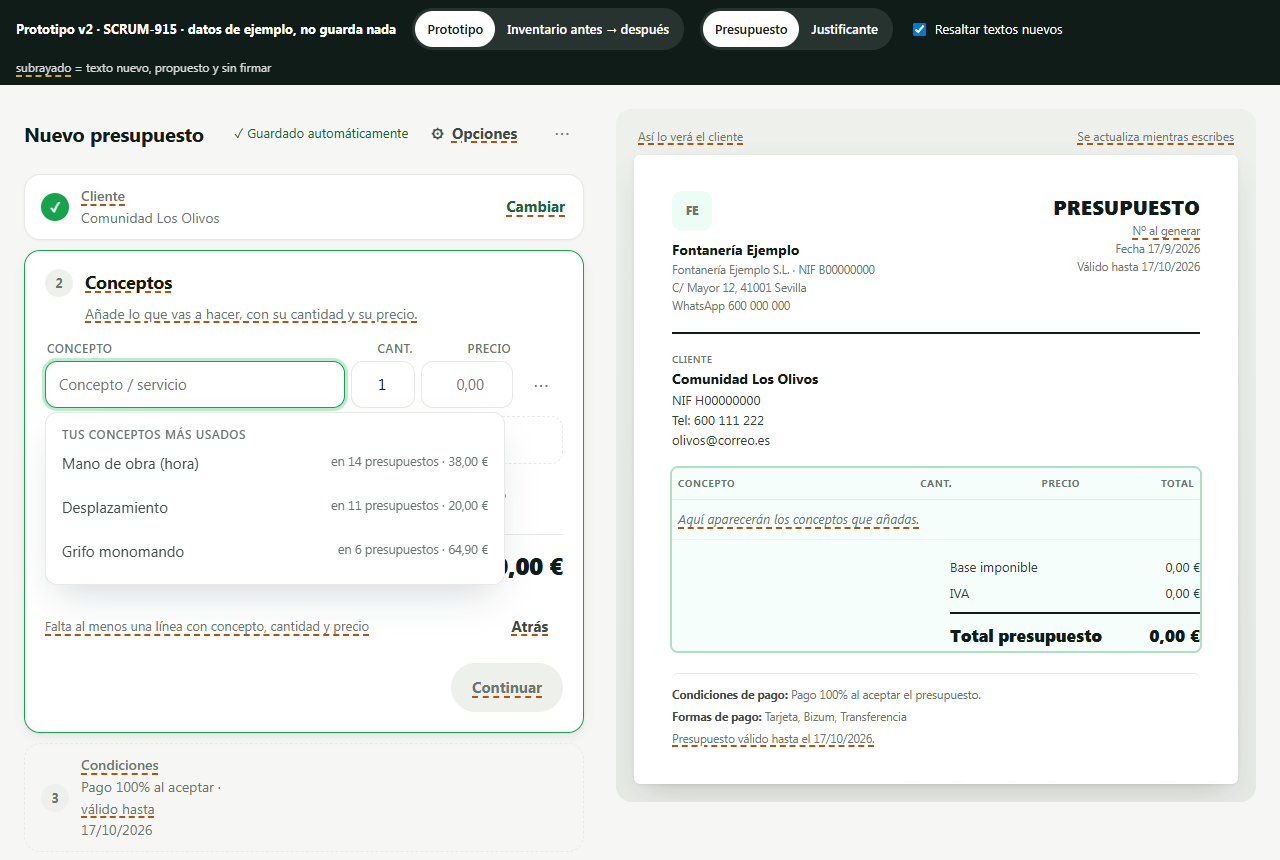
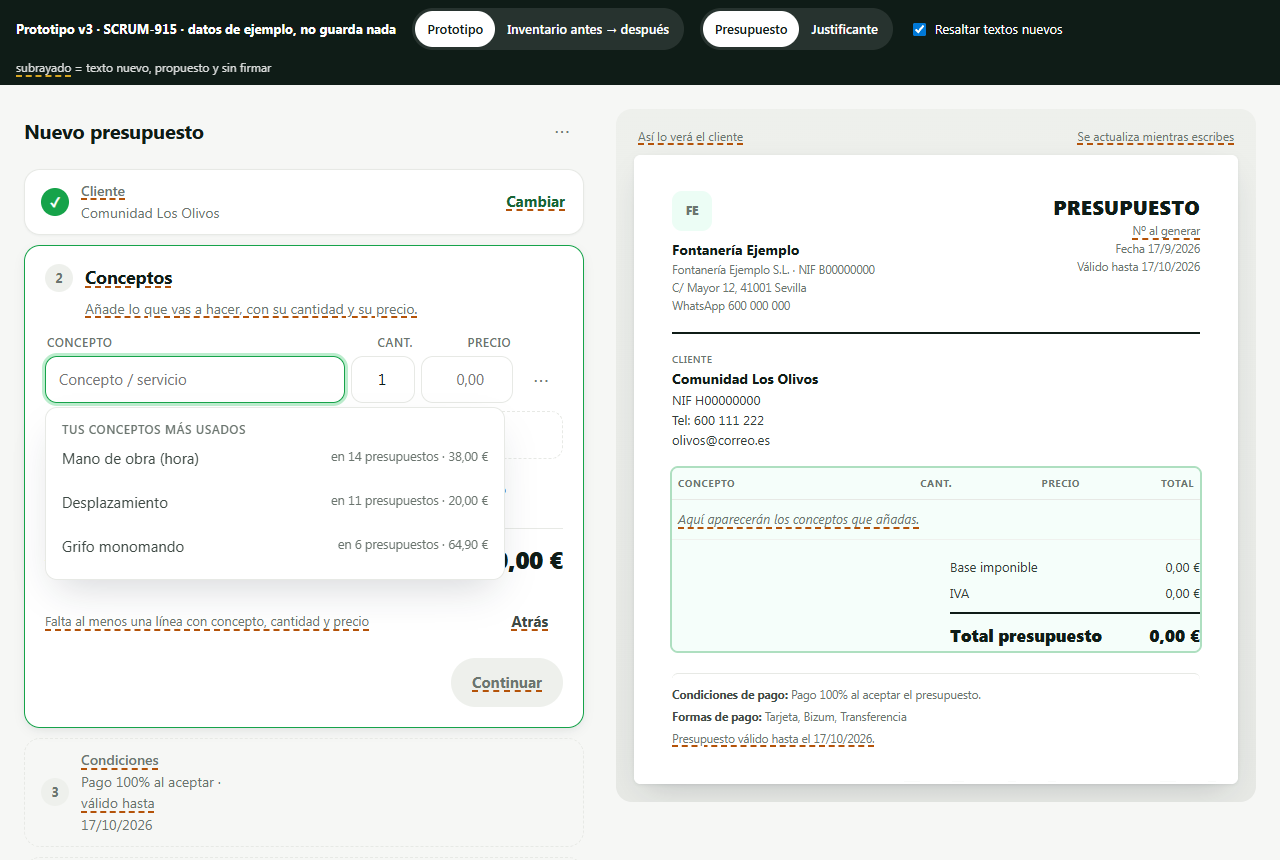
SCRUM-915c · prototipo v3: ajustes del documento como fila a la vista y «Enviar por WhatsApp» como acción principal del último paso

diff --git a/docs/prototipos/SCRUM-915/editor-presupuesto.html b/docs/prototipos/SCRUM-915/editor-presupuesto.html
@@ -3,7 +3,7 @@
 <head>
 <meta charset="utf-8">
 <meta name="viewport" content="width=device-width, initial-scale=1">
-<title>Editor de presupuesto · prototipo v2</title>
+<title>Editor de presupuesto · prototipo v3</title>
 <meta name="description" content="Prototipo v2 del editor de presupuesto y justificante (SCRUM-915): pasos guiados a la izquierda y el documento vivo a la derecha. Datos de ejemplo; no guarda nada.">
 <style>
 /* Tokens: DESIGN.md (única fuente). */
@@ -165,6 +165,7 @@ body.sin-resaltar .propuesto{text-decoration:none}
   .previa{display:none}
   .barra-abajo{display:flex;position:fixed;left:0;right:0;bottom:0;z-index:25;background:var(--surface);border-top:1px solid var(--border);box-shadow:var(--sh-flotante);padding:10px 16px calc(10px + env(safe-area-inset-bottom));gap:10px;align-items:center}
   .barra-abajo .tot{flex:1;min-width:0}
+  .barra-abajo .tot .label{white-space:nowrap}
   .barra-abajo .tot .cifra{font-size:1.25rem;font-weight:800;color:var(--ink);font-variant-numeric:tabular-nums;display:block;line-height:1.15}
   .doc{padding:22px 18px;min-height:0}
   .doc .tot{width:100%}
@@ -219,7 +220,7 @@ body.sin-resaltar .propuesto{text-decoration:none}
 </head>
 <body>
 <div class="proto" role="region" aria-label="Controles del prototipo">
-  <strong>Prototipo v2 · SCRUM-915 · datos de ejemplo, no guarda nada</strong>
+  <strong>Prototipo v3 · SCRUM-915 · datos de ejemplo, no guarda nada</strong>
   <div class="seg" role="group" aria-label="Vista">
     <button type="button" data-vista="proto" aria-pressed="true">Prototipo</button>
     <button type="button" data-vista="inv" aria-pressed="false">Inventario antes → después</button>
@@ -278,7 +279,7 @@ function inicial(tipo){return {
   cond:'FULL_UPFRONT', tramos:[{e:'Anticipo',p:50},{e:'Al finalizar',p:50}], pagos:{tarjeta:true,bizum:true,transferencia:true},
   validez:hoyMas(30), cambiando:null,
   op:{ivaDef:21,ivaModo:'sumar',dir:'no',dirTxt:'',datos:{nombre:true,tel:true,nif:true,email:true},razon:'razon',incDesc:false},
-  generado:null, zona:'cliente'
+  generado:null, envio:null, zona:'cliente'
 };}
 S=inicial();
 
@@ -302,8 +303,8 @@ function totales(){
 }
 const sumaTramos=()=>S.tramos.reduce((a,t)=>a+(Number(t.p)||0),0);
 const PASOS=()=>esPres()
-  ?[{k:'cliente',t:'Cliente',guia:'¿Para quién es el presupuesto?'},{k:'lineas',t:'Conceptos',guia:'Añade lo que vas a hacer, con su cantidad y su precio.'},{k:'condiciones',t:'Condiciones',guia:'Ya van puestas las de siempre. Cámbialas sólo si este cliente es distinto.'},{k:'enviar',t:'Revisar y enviar',guia:'Mira el documento a la derecha y, si está bien, genéralo.'}]
-  :[{k:'cliente',t:'Cliente',guia:'¿Para quién es el justificante?'},{k:'lineas',t:'Conceptos',guia:'Añade lo que has hecho, con su cantidad y su precio.'},{k:'enviar',t:'Revisar y emitir',guia:'Mira el documento a la derecha y, si está bien, emítelo.'}];
+  ?[{k:'cliente',t:'Cliente',guia:'¿Para quién es el presupuesto?'},{k:'lineas',t:'Conceptos',guia:'Añade lo que vas a hacer, con su cantidad y su precio.'},{k:'condiciones',t:'Condiciones',guia:'Ya van puestas las de siempre. Cámbialas sólo si este cliente es distinto.'},{k:'enviar',t:'Revisar y enviar',guia:'Revisa el documento y, si está bien, envíaselo al cliente por WhatsApp.'}]
+  :[{k:'cliente',t:'Cliente',guia:'¿Para quién es el justificante?'},{k:'lineas',t:'Conceptos',guia:'Añade lo que has hecho, con su cantidad y su precio.'},{k:'enviar',t:'Revisar y emitir',guia:'Revisa el documento y, si está bien, emítelo.'}];
 const hecho=(i)=>{const k=PASOS()[i-1].k; if(k==='cliente')return !!S.cliente; if(k==='lineas')return S.lineas.some(valida); if(k==='condiciones')return S.abierto>i&&(S.cond!=='CUSTOM'||sumaTramos()===100); return !!S.generado;};
 const puede=(i)=>{const k=PASOS()[i-1].k; if(k==='cliente')return !!S.cliente; if(k==='lineas')return S.lineas.some(valida); if(k==='condiciones')return S.cond!=='CUSTOM'||sumaTramos()===100; return true;};
 const listo=()=>!!S.cliente&&S.lineas.some(valida)&&(!esPres()||S.cond!=='CUSTOM'||sumaTramos()===100);
@@ -318,7 +319,6 @@ function renderEditor(){
   $('#editor').innerHTML=`
     <div class="cab"><h1>${esPres()?'Nuevo presupuesto':'Nuevo justificante'}</h1>
       ${esPres()?'<span class="guardado" id="guardado" aria-live="polite"></span>':''}
-      <button class="btn btn-ghost" data-accion="opciones" title="${esc('Opciones del documento')}">⚙ ${P('Opciones')}</button>
       <button class="menu-linea" data-accion="mas" aria-label="Más acciones">⋯</button></div>
     ${PASOS().map((p,idx)=>renderPaso(p,idx+1,t)).join('')}`;
   if(foco){const el=document.getElementById(foco); if(el){el.focus();try{if(pos!=null)el.setSelectionRange(pos,pos);}catch(e){}}}
@@ -342,7 +342,7 @@ function renderPaso(p,i,t){
     <div class="pie-paso">
       ${!ultimo&&!puede(i)?`<span class="falta">${P(faltaTxt(p.k))}</span>`:''}
       ${i>1?`<button class="btn btn-ghost" data-abrir="${i-1}">${P('Atrás')}</button>`:''}
-      ${ultimo?`<button class="btn btn-primary" data-accion="generar" ${listo()?'':'disabled'}>${esPres()?'Generar presupuesto':'Emitir justificante'}</button>`
+      ${ultimo?(esPres()?botonWa():`<button class="btn btn-primary" data-accion="generar" ${listo()?'':'disabled'}>Emitir justificante</button>`)
         :`<button class="btn btn-primary" data-abrir="${i+1}" ${puede(i)?'':'disabled'}>${P('Continuar')}</button>`}
     </div></div></section>`;
 }
@@ -400,31 +400,62 @@ function listaAuto(q){
   const r=CATALOGO.filter((p)=>p[0].toLowerCase().includes(q.toLowerCase()));
   return r.length?r.map((p,j)=>`<li><button type="button" data-cat="${CATALOGO.indexOf(p)}">${esc(p[0])}<small>${eur(p[2])}</small></button></li>`).join(''):`<li class="nota" style="padding:8px 10px">Sin resultados</li>`;
 }
+function filaRes(k,titulo,valor,detalle){ const ch=S.cambiando;
+  return `<div class="fila-res"><div class="que"><b>${titulo}</b><span>${valor}</span></div>
+      <button class="enlace" data-cambiar="${k}" aria-expanded="${ch===k}">${ch===k?P('Listo'):P('Cambiar')}</button></div>
+    ${ch===k?`<div class="detalle">${detalle}</div>`:''}`; }
+// SCRUM-915 v3 · los ajustes del documento, a la vista como una fila más (decisión del orquestador).
+function filaAjustes(){
+  const o=S.op;
+  const resumen=esPres()
+    ? [o.ivaModo==='sumar'?P('IVA sumado'):'IVA no incluido', o.dir==='no'?P('sin dirección de obra'):P('con dirección de obra')].join(' · ')
+    : P('IVA por defecto')+' '+o.ivaDef+' %';
+  const detalle=`<label><span class="label">IVA por defecto (%)</span><select class="select" data-aj="ivaDef" style="margin-top:6px">${[21,10,4,0].map((v)=>`<option ${o.ivaDef===v?'selected':''}>${v}</option>`).join('')}</select></label>
+    ${esPres()?`<label style="display:block;margin-top:12px"><span class="label">IVA del presupuesto</span><select class="select" data-aj="ivaModo" style="margin-top:6px"><option value="sumar" ${o.ivaModo==='sumar'?'selected':''}>Sumar el IVA al final</option><option value="no_incluido" ${o.ivaModo==='no_incluido'?'selected':''}>IVA no incluido</option></select></label>
+    <label style="display:block;margin-top:12px"><span class="label">Dirección de la obra</span><select class="select" data-aj="dir" style="margin-top:6px"><option value="no" ${o.dir==='no'?'selected':''}>No mostrar</option><option value="fact" ${o.dir==='fact'?'selected':''}>Utilizar dirección de facturación</option><option value="pers" ${o.dir==='pers'?'selected':''}>Personalizada</option></select></label>
+    ${o.dir==='pers'?`<input class="input" data-aj="dirTxt" style="margin-top:8px" maxlength="300" placeholder="${esc(S.cliente?S.cliente.dir:'Dirección de la obra')}" value="${esc(o.dirTxt)}" aria-label="Dirección personalizada">`:''}
+    <div style="margin-top:12px"><span class="label">Datos del cliente en el documento</span>${[['nombre','Nombre'],['tel','Teléfono'],['nif','NIF'],['email','Email']].map(([k,n])=>`<label class="check"><input type="checkbox" data-aj="dato:${k}" ${o.datos[k]?'checked':''}> ${n}</label>`).join('')}
+      <div class="fichas"><label class="check"><input type="radio" name="razon" data-aj="razon" value="razon" ${o.razon==='razon'?'checked':''}> Razón social</label><label class="check"><input type="radio" name="razon" data-aj="razon" value="comercial" ${o.razon==='comercial'?'checked':''}> Nombre comercial</label></div>
+      <p class="nota">Solo aparecen los que el cliente tenga rellenos. Elige con qué nombre sale este cliente en el documento.</p></div>
+    <label class="check"><input type="checkbox" data-aj="incDesc" ${o.incDesc?'checked':''}> Incluir descripción en el PDF</label>`:''}`;
+  return filaRes('ajustes',P('Ajustes del documento'),resumen,detalle);
+}
 function pasoCondiciones(){
-  const c=S.cliente; const ch=S.cambiando; const suma=sumaTramos();
+  const c=S.cliente; const suma=sumaTramos();
   const pagosTxt=Object.keys(PAGO).filter((m)=>S.pagos[m]).map((m)=>PAGO[m]).join(' · ')||'—';
   const pactPagos=c&&c.pagos&&Object.keys(PAGO).some((m)=>S.pagos[m]!==c.pagos.includes(m));
-  const fila=(k,titulo,valor,detalle)=>`<div class="fila-res"><div class="que"><b>${titulo}</b><span>${valor}</span></div>
-      <button class="enlace" data-cambiar="${k}" aria-expanded="${ch===k}">${ch===k?P('Listo'):P('Cambiar')}</button></div>
-    ${ch===k?`<div class="detalle">${detalle}</div>`:''}`;
   return `
-    ${fila('cobro','Condiciones de pago',esc(COND[S.cond]),`<div class="fichas">${Object.entries(COND).map(([v,n])=>`<button class="chip" data-cond="${v}" aria-pressed="${S.cond===v}">${n}</button>`).join('')}</div>
+    ${filaRes('cobro','Condiciones de pago',esc(COND[S.cond]),`<div class="fichas">${Object.entries(COND).map(([v,n])=>`<button class="chip" data-cond="${v}" aria-pressed="${S.cond===v}">${n}</button>`).join('')}</div>
       ${S.cond==='CUSTOM'?`<div style="margin-top:10px"><span class="label">Tramos de cobro</span>${S.tramos.map((tr,i)=>`<div class="tramo"><input class="input" data-te="${i}" placeholder="Etiqueta (p. ej. Anticipo)" value="${esc(tr.e)}" aria-label="Etiqueta del tramo ${i+1}"><input class="input num-in" data-tp="${i}" type="number" placeholder="%" value="${tr.p}" aria-label="Porcentaje del tramo ${i+1}"><button class="menu-linea" data-quitar-tramo="${i}" aria-label="Eliminar tramo" title="Eliminar tramo">🗑</button></div>`).join('')}
         <div style="display:flex;justify-content:space-between;align-items:center;gap:8px;margin-top:6px;flex-wrap:wrap"><button class="enlace" data-accion="add-tramo">+ Añadir tramo</button><span id="sumaTramos" style="font-weight:600;font-size:14px;color:${suma===100?'var(--brand-tint-ink)':'var(--danger)'}">${suma===100?`Suman ${suma} % ✓`:`Suman ${suma} % — deben sumar 100 %`}</span></div></div>`:''}`)}
-    ${fila('pagos','Formas de pago que verá el cliente',pagosTxt,`
+    ${filaRes('pagos','Formas de pago que verá el cliente',pagosTxt,`
       ${pactPagos?`<div class="pactado" style="margin:0 0 6px"><span>Formas de pago pactadas · ${c.pagos.map((m)=>PAGO[m]).join(' · ')}</span><button class="btn btn-secondary" data-accion="aplicar-pagos">${P('Aplicar')}</button></div>`:''}
       ${Object.entries(PAGO).map(([m,n])=>`<label class="check"><input type="checkbox" data-pago="${m}" ${S.pagos[m]?'checked':''}> ${n}</label>`).join('')}
       <p class="nota">Solo se muestran las que tengas configuradas (IBAN, Bizum o tarjeta).</p>
       <p class="nota">💳 La tarjeta lleva una comisión del <b>0,9 %</b> por cobro. Bizum y transferencia, gratis.</p>`)}
-    ${fila('validez','Válido hasta',fecha(S.validez),`<input class="input" id="validez" type="date" min="${hoyMas(1)}" value="${S.validez}" aria-label="Válido hasta">
+    ${filaRes('validez','Válido hasta',fecha(S.validez),`<input class="input" id="validez" type="date" min="${hoyMas(1)}" value="${S.validez}" aria-label="Válido hasta">
       <div class="fichas" style="margin-top:8px">${[7,14,30].map((d)=>`<button class="chip" data-dias="${d}">${d} días</button>`).join('')}</div>
-      <p class="nota">Pasada esta fecha el presupuesto caduca solo y el cliente verá "pide uno actualizado".</p>`)}`;
+      <p class="nota">Pasada esta fecha el presupuesto caduca solo y el cliente verá "pide uno actualizado".</p>`)}
+    ${filaAjustes()}`;
 }
 function pasoEnviar(t){
-  return `<div class="fila-res"><div class="que"><b>${esc(S.cliente?S.cliente.nombre:'—')}</b><span>${t.n} ${t.n===1?'concepto':'conceptos'}${esPres()?' · '+esc(COND[S.cond]):''}</span></div><span class="money" style="font-size:1.25rem">${eur(t.total)}</span></div>
-    ${S.generado?`<p class="nota">${esPres()?'Presupuesto':'Justificante'} ${S.generado} ${P('generado')}.</p>`:''}
+  const c=S.cliente; const ev=S.envio;
+  // SCRUM-915 v3 · la confirmación sale AQUÍ, sin modal que tape.
+  const conf=!esPres()||!ev?'':(ev.canal==='whatsapp'
+    ?`<div class="pactado" role="status" style="margin-top:12px"><span>✓ ${P('Enviado por WhatsApp a '+esc(c.nombre)+' · pendiente de firma')}</span></div>`
+    :ev.canal==='email'?`<div class="pactado" role="status" style="margin-top:12px"><span>✓ ${P('Enviado por email a '+esc(c.email))}</span></div>`
+    :`<div class="pactado" role="status" style="margin-top:12px;background:var(--neutral-100);color:var(--body)"><span>${P('Presupuesto '+S.generado+' guardado · sin enviar')}</span></div>`);
+  const secundarias=esPres()?`<div class="secundarias" style="margin-top:12px">
+      <button class="btn btn-ghost" data-accion="descargar-pdf" ${listo()?'':'disabled'}>⬇ Descargar PDF</button>
+      <button class="btn btn-ghost" data-accion="enviar-email" ${listo()?'':'disabled'}>✉ Enviar por email</button>
+      ${ev?'':`<button class="btn btn-ghost" data-accion="solo-guardar" ${listo()?'':'disabled'}>${P('Solo guardar')}</button>`}</div>`:'';
+  return (esPres()?'':filaAjustes())+`<div class="fila-res"><div class="que"><b>${esc(c?c.nombre:'—')}</b><span>${t.n} ${t.n===1?'concepto':'conceptos'}${esPres()?' · '+esc(COND[S.cond]):''}</span></div><span class="money" style="font-size:1.25rem">${eur(t.total)}</span></div>
+    ${conf}${secundarias}
+    ${!esPres()&&S.generado?`<p class="nota">Justificante emitido · ${S.generado}</p>`:''}
     ${movil()?`<button class="btn btn-secondary" data-accion="ver-doc" style="width:100%;margin-top:8px">${P('Ver documento')}</button>`:''}`;
 }
+function botonWa(){ const enviado=S.envio&&S.envio.canal==='whatsapp';
+  return `<button class="btn btn-primary" data-accion="enviar-wa" ${listo()&&!enviado?'':'disabled'}>${enviado?'✓ Enviado por WhatsApp':'Enviar por WhatsApp'}</button>`; }
 
 // ───────────── La vista previa viva ─────────────
 function renderPrevia(){ const html=documento(); $('#previa').innerHTML=`<div class="marco"><div class="marco-t"><span>${P('Así lo verá el cliente')}</span><span>${P('Se actualiza mientras escribes')}</span></div>${html}</div>`; }
@@ -455,13 +486,13 @@ function documento(){
 function renderBarra(){
   const t=totales(); const i=S.abierto; const n=PASOS().length; const ultimo=i===n;
   $('#barraAbajo').innerHTML=`<div class="tot"><span class="label">${P('Paso '+i+' de '+n)}</span><span class="cifra">${eur(t.total)}</span></div>
-    <button class="btn btn-secondary" data-accion="ver-doc">${P('Ver documento')}</button>
-    ${ultimo?`<button class="btn btn-primary" data-accion="generar" ${listo()?'':'disabled'}>${esPres()?'Generar':'Emitir'}</button>`:`<button class="btn btn-primary" data-abrir="${i+1}" ${puede(i)?'':'disabled'}>${P('Continuar')}</button>`}`;
+    ${ultimo?'':`<button class="btn btn-secondary" data-accion="ver-doc">${P('Ver documento')}</button>`}
+    ${ultimo?(esPres()?botonWa():`<button class="btn btn-primary" data-accion="generar" ${listo()?'':'disabled'}>Emitir</button>`):`<button class="btn btn-primary" data-abrir="${i+1}" ${puede(i)?'':'disabled'}>${P('Continuar')}</button>`}`;
 }
 function refrescar(){ // mientras se escribe: previa, totales y barra, sin repintar el editor
   renderPrevia(); renderBarra(); const t=totales(); const st=$('#subtotal'); if(st)st.textContent=eur(t.total);
   const s=$('#sumaTramos'); if(s){const n=sumaTramos();s.style.color=n===100?'var(--brand-tint-ink)':'var(--danger)';s.textContent=n===100?`Suman ${n} % ✓`:`Suman ${n} % — deben sumar 100 %`;}
-  const pie=document.querySelector('.paso.abierto .pie-paso'); if(pie){const i=S.abierto; const b=pie.querySelector('[data-abrir="'+(i+1)+'"]'); if(b)b.disabled=!puede(i); const g=pie.querySelector('[data-accion="generar"]'); if(g)g.disabled=!listo(); const f=pie.querySelector('.falta'); if(f&&puede(i))f.remove();}
+  const pie=document.querySelector('.paso.abierto .pie-paso'); if(pie){const i=S.abierto; const b=pie.querySelector('[data-abrir="'+(i+1)+'"]'); if(b)b.disabled=!puede(i); const g=pie.querySelector('[data-accion="generar"],[data-accion="enviar-wa"]'); if(g&&!(S.envio&&S.envio.canal==='whatsapp'))g.disabled=!listo(); const f=pie.querySelector('.falta'); if(f&&puede(i))f.remove();}
   guardado();
 }
 let tG=null; function guardado(){ if(!esPres())return; clearTimeout(tG); tG=setTimeout(()=>{const g=$('#guardado'); if(g){g.textContent='✓ Guardado automáticamente'; setTimeout(()=>{g.textContent='';},1500);}},700); }
@@ -478,23 +509,6 @@ function modal(titulo,cuerpo,pie,clase=''){
   const m=$('#capa .modal'); (m.querySelector('input,select,textarea,.pie .btn')||m.querySelector('.cerrar')).focus();
 }
 const cerrar=()=>{$('#capa').innerHTML='';};
-function mOpciones(){
-  const o=S.op;
-  modal(`⚙ ${P('Opciones del documento')}`,`<p class="nota" style="margin-top:0">${P('Lo que casi nunca cambia. Tócalo sólo si este documento es distinto.')}</p>
-    <div class="grupo"><label><span class="label">IVA por defecto (%)</span><select class="select" id="o-ivaDef" style="margin-top:6px">${[21,10,4,0].map((v)=>`<option ${o.ivaDef===v?'selected':''}>${v}</option>`).join('')}</select></label></div>
-    ${esPres()?`<div class="grupo"><label><span class="label">IVA del presupuesto</span><select class="select" id="o-ivaModo" style="margin-top:6px"><option value="sumar" ${o.ivaModo==='sumar'?'selected':''}>Sumar el IVA al final</option><option value="no_incluido" ${o.ivaModo==='no_incluido'?'selected':''}>IVA no incluido</option></select></label></div>
-    <div class="grupo"><label><span class="label">Dirección de la obra</span><select class="select" id="o-dir" style="margin-top:6px"><option value="no" ${o.dir==='no'?'selected':''}>No mostrar</option><option value="fact" ${o.dir==='fact'?'selected':''}>Utilizar dirección de facturación</option><option value="pers" ${o.dir==='pers'?'selected':''}>Personalizada</option></select></label>
-      <input class="input" id="o-dirTxt" style="margin-top:8px" maxlength="300" placeholder="${esc(S.cliente?S.cliente.dir:'Dirección de la obra')}" value="${esc(o.dirTxt)}" aria-label="Dirección personalizada"></div>
-    <div class="grupo"><span class="label">Datos del cliente en el documento</span>${[['nombre','Nombre'],['tel','Teléfono'],['nif','NIF'],['email','Email']].map(([k,n])=>`<label class="check"><input type="checkbox" data-od="${k}" ${o.datos[k]?'checked':''}> ${n}</label>`).join('')}
-      <div class="fichas"><label class="check"><input type="radio" name="razon" value="razon" ${o.razon==='razon'?'checked':''}> Razón social</label><label class="check"><input type="radio" name="razon" value="comercial" ${o.razon==='comercial'?'checked':''}> Nombre comercial</label></div>
-      <p class="nota">Solo aparecen los que el cliente tenga rellenos. Elige con qué nombre sale este cliente en el documento.</p></div>
-    <div class="grupo"><label class="check"><input type="checkbox" id="o-incDesc" ${o.incDesc?'checked':''}> Incluir descripción en el PDF</label></div>`:''}`,
-    `<button class="btn btn-primary" data-accion="opciones-ok">Listo</button>`);
-}
-function okOpciones(){ const m=$('#capa .modal'); S.op.ivaDef=Number(m.querySelector('#o-ivaDef').value);
-  if(esPres()){S.op.ivaModo=m.querySelector('#o-ivaModo').value;S.op.dir=m.querySelector('#o-dir').value;S.op.dirTxt=m.querySelector('#o-dirTxt').value;
-    m.querySelectorAll('[data-od]').forEach((c)=>{S.op.datos[c.dataset.od]=c.checked;});S.op.razon=(m.querySelector('[name=razon]:checked')||{}).value||'razon';S.op.incDesc=m.querySelector('#o-incDesc').checked;}
-  cerrar(); render(); guardado(); }
 function mMas(){ modal(P('Más acciones'),`<div style="display:flex;flex-direction:column;gap:8px">
     <button class="btn btn-secondary" data-accion="guardar-plantilla">💾 Guardar como plantilla</button>
     <button class="btn btn-secondary" data-accion="limpiar">Limpiar formulario</button></div>`,''); }
@@ -508,7 +522,7 @@ function mAjustes(i){ const l=S.lineas[i];
     ${esPres()?`<div class="grupo"><label class="check"><input type="checkbox" id="a-sup" ${l.sup?'checked':''}> Suplido (pagado por cuenta del cliente)</label><p class="nota">Lo que has pagado por cuenta del cliente y le repercutes tal cual: una tasa, un visado, una licencia. No lleva IVA ni margen. El material que compras tú no es un suplido: ese se vende con su IVA.</p></div>`:''}
     <div class="grupo" style="display:grid;grid-template-columns:1fr 1fr;gap:12px"><label><span class="label">IVA %</span><select class="select" id="a-iva" style="margin-top:6px">${[21,10,4,0].map((v)=>`<option ${l.t===v?'selected':''}>${v}</option>`).join('')}</select></label>
       ${esPres()?`<label><span class="label">Dto. %</span><input class="input" id="a-dto" type="number" min="0" max="100" value="${l.dto||''}" style="margin-top:6px"></label><label><span class="label">Coste</span><input class="input" id="a-coste" type="number" min="0" step="0.01" value="${l.coste||''}" style="margin-top:6px"></label>`:''}</div>
-    ${esPres()?`<div class="grupo"><label><span class="label">${P('Descripción')}</span><textarea class="textarea" id="a-desc" rows="2" style="margin-top:6px">${esc(l.desc)}</textarea></label><p class="nota">${P('Sale bajo el concepto si en Opciones marcas «Incluir descripción en el PDF».')}</p></div>`:''}`,
+    ${esPres()?`<div class="grupo"><label><span class="label">${P('Descripción')}</span><textarea class="textarea" id="a-desc" rows="2" style="margin-top:6px">${esc(l.desc)}</textarea></label><p class="nota">${P('Sale bajo el concepto si en «Ajustes del documento» marcas «Incluir descripción en el PDF».')}</p></div>`:''}`,
     `<button class="btn btn-primary" data-accion="ajustes-ok" data-i="${i}">Listo</button>`); }
 function okAjustes(i){ const m=$('#capa .modal'); const l=S.lineas[i]; l.t=Number(m.querySelector('#a-iva').value);
   if(esPres()){l.sup=m.querySelector('#a-sup').checked;l.dto=Number(m.querySelector('#a-dto').value)||0;l.coste=m.querySelector('#a-coste').value;l.desc=m.querySelector('#a-desc').value;}
@@ -527,14 +541,7 @@ function mNuevoCliente(){ modal('+ Nuevo cliente',`<p class="nota" style="margin
   <label><span class="label">Email</span><input class="input" id="nc-email" type="email" style="margin-top:6px"></label><label><span class="label">NIF/CIF (opcional)</span><input class="input" id="nc-nif" style="margin-top:6px"></label></div>`,
   `<button class="btn btn-secondary" data-cerrar>Cancelar</button><button class="btn btn-primary" data-accion="nc-ok">Guardar</button>`); }
 function mDocumento(){ modal(P('Así lo verá el cliente'),documento(),`<button class="btn btn-primary" data-cerrar>${P('Volver al editor')}</button>`,'ancho'); }
-function mGenerado(){
-  const t=totales();
-  if(!esPres()){ S.generado='J-2026-0042'; render(); toast('Justificante emitido'); return; }
-  S.generado='#128'; render();
-  modal('Presupuesto #128 generado',`<p style="margin-top:0">Revisa el PDF del presupuesto antes de enviarlo por WhatsApp al cliente.</p>
-    <div class="fila-res" style="background:var(--bg);border-radius:var(--r-md);padding:12px"><div class="que"><b>${esc(S.cliente.nombre)}</b><span>${t.n} conceptos</span></div><span class="money" style="font-size:1.25rem">${eur(t.total)}</span></div>
-    <p><a href="#" class="enlace" onclick="return false">Abrir PDF en nueva pestaña →</a></p><span class="label">Enviar al cliente</span>`,
-    `<button class="btn btn-ghost" data-cerrar>Seguir editando</button><a class="btn btn-secondary" href="#" onclick="return false">⬇ Descargar PDF</a><button class="btn btn-secondary" data-accion="env-email">✉ Enviar por email</button><button class="btn btn-primary" data-accion="env-wa">Enviar por WhatsApp</button>`); }
+function generar(){ if(!S.generado) S.generado=esPres()?'#128':'J-2026-0042'; }
 
 // ───────────── Eventos ─────────────
 document.addEventListener('click',(e)=>{
@@ -558,7 +565,6 @@ document.addEventListener('click',(e)=>{
   if(d.quitarTramo){S.tramos.splice(Number(d.quitarTramo),1);render();return;}
   const i=Number(d.i);
   switch(d.accion){
-    case 'opciones':mOpciones();break; case 'opciones-ok':okOpciones();break;
     case 'mas':mMas();break;
     case 'nuevo-cliente':mNuevoCliente();break;
     case 'nc-ok':{const c={id:Date.now(),nombre:$('#nc-nombre').value.trim()||'Cliente nuevo',tel:$('#nc-tel').value,email:$('#nc-email').value,nif:$('#nc-nif').value,dir:''};CLIENTES.unshift(c);S.cliente=c;cerrar();abrirPaso(2);break;}
@@ -583,10 +589,12 @@ document.addEventListener('click',(e)=>{
     case 'limpiar':modal(P('¿Vaciar este documento?'),`<p style="margin-top:0">${P('Se quitan el cliente, las líneas y los cambios de este documento. Tus plantillas y tus opciones de siempre no se tocan.')}</p>`,`<button class="btn btn-secondary" data-cerrar>${P('No, seguir')}</button><button class="btn btn-secondary" style="color:var(--danger)" data-accion="limpiar-ok">Limpiar formulario</button>`);break;
     case 'limpiar-ok':S=inicial(S.tipo);cerrar();render();break;
     case 'ver-doc':mDocumento();break;
-    case 'generar':if(!listo())break;if(S.generado&&esPres()){modal(P('Este presupuesto ya está generado'),`<p style="margin-top:0">${P('Generarlo otra vez crearía un segundo presupuesto. ¿Quieres ver el que ya tienes?')}</p>`,`<button class="btn btn-secondary" data-cerrar>Seguir editando</button><button class="btn btn-primary" data-accion="ver-gen">${P('Ver el presupuesto')} ${S.generado}</button>`);break;}mGenerado();break;
-    case 'ver-gen':mGenerado();break;
-    case 'env-wa':b.textContent='✓ Enviado por WhatsApp';b.disabled=true;toast('Presupuesto enviado por WhatsApp.');break;
-    case 'env-email':b.textContent='✓ Enviado por email';b.disabled=true;toast('Presupuesto enviado por email.');break;
+    case 'generar':if(!listo())break;generar();render();toast('Justificante emitido');break;
+    // SCRUM-915 v3 · WhatsApp es lo primero: genera (una sola vez) y envía en el mismo gesto.
+    case 'enviar-wa':if(!listo())break;generar();S.envio={canal:'whatsapp'};render();toast('Presupuesto enviado por WhatsApp.');break;
+    case 'enviar-email':if(!listo())break;if(!S.cliente.email){toast('Este cliente no tiene email; añádelo en su ficha.');break;}generar();S.envio={canal:'email'};render();toast('Presupuesto enviado por email.');break;
+    case 'solo-guardar':if(!listo())break;generar();S.envio={canal:'guardado'};render();break;
+    case 'descargar-pdf':if(!listo())break;generar();render();toast('presupuesto-'+S.generado.replace('#','')+'.pdf');break;
   }
 });
 document.addEventListener('input',(e)=>{
@@ -599,10 +607,15 @@ document.addEventListener('input',(e)=>{
   if(el.dataset.te!==undefined){S.tramos[el.dataset.te].e=el.value;renderPrevia();return;}
   if(el.dataset.tp!==undefined){S.tramos[el.dataset.tp].p=Number(el.value)||0;refrescar();return;}
   if(el.id==='validez'){S.validez=el.value;renderPrevia();return;}
+  if(el.dataset.aj==='dirTxt'){S.op.dirTxt=el.value;renderPrevia();return;}
 });
 document.addEventListener('change',(e)=>{
   const el=e.target;
   if(el.dataset.pago){S.pagos[el.dataset.pago]=el.checked;renderPrevia();guardado();return;}
+  if(el.dataset.aj&&el.dataset.aj!=='dirTxt'){const k=el.dataset.aj;
+    if(k==='ivaDef')S.op.ivaDef=Number(el.value); else if(k==='ivaModo')S.op.ivaModo=el.value; else if(k==='dir')S.op.dir=el.value;
+    else if(k==='incDesc')S.op.incDesc=el.checked; else if(k==='razon')S.op.razon=el.value; else if(k.startsWith('dato:'))S.op.datos[k.slice(5)]=el.checked;
+    S.zona=esPres()?'condiciones':'cliente'; renderEditor(); renderPrevia(); renderBarra(); guardado(); return;}
   if(el.id==='resaltar'){document.body.classList.toggle('sin-resaltar',!el.checked);return;}
 });
 document.addEventListener('focusin',(e)=>{const el=e.target; if(el.dataset&&el.dataset.k==='c'&&S.auto!==Number(el.dataset.i)){S.auto=Number(el.dataset.i);S.zona='lineas';renderEditor();renderPrevia();}});
@@ -621,10 +634,10 @@ const INV=[
  ['buscador «Buscar por nombre, teléfono, email o referencia…»','Paso 1 «Cliente», abierto al entrar; filtra en local','—'],
  ['select Cliente + «+ Nuevo cliente»','Lista de 4 coincidencias como botones grandes + «+ Nuevo cliente» (alta sin salir)','—'],
  ['«Sin resultados para tu búsqueda»','Igual, bajo el buscador','—'],
- ['Dirección de la obra + campo','Opciones; si se muestra, sale en el documento junto al cliente','—'],
+ ['Dirección de la obra + campo','Fila «Ajustes del documento · … · Cambiar» dentro de Condiciones (justificante: dentro de Revisar), abierta en el sitio; si se muestra, sale en el documento junto al cliente','Decisión v3: a la vista'],
  ['C · 2. Líneas'],
- ['IVA por defecto (%)','Opciones','—'],
- ['IVA del presupuesto','Opciones; el documento lo refleja («IVA no incluido»)','Arregla: hoy sin oyente'],
+ ['IVA por defecto (%)','Fila «Ajustes del documento · … · Cambiar» dentro de Condiciones (justificante: dentro de Revisar), abierta en el sitio','Decisión v3: a la vista'],
+ ['IVA del presupuesto','Fila «Ajustes del documento · … · Cambiar» dentro de Condiciones (justificante: dentro de Revisar), abierta en el sitio; resumen «IVA sumado»; el documento lo refleja','Arregla: hoy sin oyente'],
  ['«✨ Sugerir con IA»','Acción SECUNDARIA junto a «+ Añadir línea»; abre el mismo modal','Frase del modal propuesta'],
  ['🎤 Dictar','Dentro del modal de IA, con su condición de hoy','—'],
  ['sugerencias + «Esto lo hemos puesto nosotros…»','Igual en el modal; el aviso se conserva en la línea hasta «Revisado»','Arregla: hoy se pierde'],
@@ -648,34 +661,36 @@ const INV=[
  ['E · 4. Envío'],
  ['Formas de pago + notas IBAN y 0,9 %','Fila «Formas de pago que verá el cliente · … · Cambiar»','—'],
  ['tira de pagos pactados + «[PENDIENTE…]»','Dentro de «Cambiar»: «Aplicar»','MARCADOR → propuesto'],
- ['Datos del cliente en el documento + Razón social / Nombre comercial','Opciones','—'],
- ['Incluir descripción en el PDF','Opciones','—'],
+ ['Datos del cliente en el documento + Razón social / Nombre comercial','Fila «Ajustes del documento · … · Cambiar» dentro de Condiciones (justificante: dentro de Revisar), abierta en el sitio','Decisión v3: a la vista'],
+ ['Incluir descripción en el PDF','Fila «Ajustes del documento · … · Cambiar» dentro de Condiciones (justificante: dentro de Revisar), abierta en el sitio','Decisión v3: a la vista'],
  ['F · Totales y descuento'],
  ['Base, IVA, Suma, Descuento','En el documento de la derecha; en el paso Conceptos, el TOTAL','—'],
  ['«+ Añadir descuento» → Descuento global','Secundaria junto a «+ Añadir línea»','—'],
  ['tira del descuento pactado «[PENDIENTE…]» ×2','«Este cliente tiene pactado un descuento del N %» + «Aplicar a las líneas», en el paso Conceptos','2 MARCADORES → propuestos'],
  ['G · KPI del total','Paso Conceptos + documento (escritorio); barra inferior (móvil)','—'],
  ['H · Acciones'],
- ['«Generar presupuesto» / «Emitir justificante»','Último paso «Revisar y enviar» / «Revisar y emitir»','—'],
- ['Generar dos veces = dos presupuestos','Segundo clic avisa y ofrece ver el generado','Textos propuestos'],
+ ['«Generar presupuesto» / «Emitir justificante»','Presupuesto: último paso «Revisar y enviar» con «Enviar por WhatsApp» como principal (genera y envía en un gesto); «Solo guardar» genera sin enviar. Justificante: «Emitir justificante»','Decisión v3: WhatsApp es lo primero'],
+ ['Generar dos veces = dos presupuestos','Se genera UNA vez: enviar, descargar o guardar reutilizan el mismo presupuesto','Arregla el doble'],
  ['«Limpiar formulario» (sin confirmar)','Menú «⋯» de arriba, con confirmación','Textos propuestos'],
  ['«💾 Guardar como plantilla»','Menú «⋯» de arriba','Guardar Dto./suplido/descripción: cambio de servidor a decidir'],
  ['«✓ Guardado automáticamente»','Junto al título','—'],
  ['I · Tarjeta derecha'],
  ['«Vista previa del documento» (no interactiva, incompleta, se «rompe»)','DOCUMENTO VIVO a la derecha, fijo, con aspecto de PDF: se construye mientras escribes y resalta la parte que editas. En móvil, «Ver documento»','Pedido por el fundador'],
- ['«Estado del presupuesto»','Nº en el documento tras generar; estado y envío en el modal','—'],
- ['J · Modal tras generar'],
- ['PDF, WhatsApp, email, Descargar PDF, «Seguir editando», pendiente de aprobación','Igual','Aviso muerto «Has desmarcado…» se retira'],
+ ['«Estado del presupuesto»','Nº en el documento tras generar; «✓ Enviado por WhatsApp a … · pendiente de firma» en el propio paso','Texto propuesto'],
+ ['J · Modal tras generar (desaparece)'],
+ ['«Enviar por WhatsApp», «✉ Enviar por email», «⬇ Descargar PDF»','En el último paso: WhatsApp principal; email y PDF como secundarias; confirmación en la misma pantalla, sin modal','Decisión v3'],
  ['Documento suelto'],
- ['mismo editor sin condiciones/envío/descuentos','3 pasos: Cliente → Conceptos → Revisar y emitir; Opciones sólo IVA por defecto','—'],
+ ['mismo editor sin condiciones/envío/descuentos','3 pasos: Cliente → Conceptos → Revisar y emitir; en Revisar, la fila «Ajustes del documento» sólo con IVA por defecto','—'],
+ ['«Abrir PDF en nueva pestaña», «Seguir editando»','No hacen falta: el documento está siempre a la derecha y no hay modal que cerrar','Decisión v3'],
+ ['pendiente de aprobación (técnico por encima de su límite)','Al construir: «Enviar por WhatsApp» no envía; se guarda y se dice «📋 Enviado a un administrador para aprobación. Podrás mandarlo al cliente cuando lo apruebe.» (texto de hoy)','No simulado en el prototipo'],
  ['Teclado'],
  ['N dentro del editor abre la Cotización rápida','No debe abrirla','Defecto a corregir al construir'],
 ];
 function inventario(){
-  $('#vista-inv').innerHTML=`<div class="inv"><h2>Inventario antes → después (v2)</h2>
-    <p>Todo lo que hace hoy el editor (leído del código; detalle en <code>inventario-hoy.md</code>) y dónde queda en la v2. Ninguna función se pierde.</p>
-    <table><thead><tr><th>Hoy</th><th>En la v2</th><th>Notas</th></tr></thead><tbody>
-    ${INV.map((r)=>r.length===1?`<tr class="grupo"><td colspan="3">${esc(r[0])}</td></tr>`:`<tr><td data-h="Hoy">${esc(r[0])}</td><td data-h="En la v2">${esc(r[1])}</td><td data-h="Notas">${esc(r[2])}</td></tr>`).join('')}
+  $('#vista-inv').innerHTML=`<div class="inv"><h2>Inventario antes → después (v3)</h2>
+    <p>Todo lo que hace hoy el editor (leído del código; detalle en <code>inventario-hoy.md</code>) y dónde queda en la v3. Ninguna función se pierde.</p>
+    <table><thead><tr><th>Hoy</th><th>En la v3</th><th>Notas</th></tr></thead><tbody>
+    ${INV.map((r)=>r.length===1?`<tr class="grupo"><td colspan="3">${esc(r[0])}</td></tr>`:`<tr><td data-h="Hoy">${esc(r[0])}</td><td data-h="En la v3">${esc(r[1])}</td><td data-h="Notas">${esc(r[2])}</td></tr>`).join('')}
     </tbody></table></div>`;
 }
 render();

diff --git a/docs/prototipos/SCRUM-915/textos-propuestos.md b/docs/prototipos/SCRUM-915/textos-propuestos.md
@@ -1,4 +1,4 @@
-# SCRUM-915 · Textos NUEVOS del prototipo v2, propuestos y SIN firmar
+# SCRUM-915 · Textos NUEVOS del prototipo v3, propuestos y SIN firmar
 
 En `editor-presupuesto.html` salen subrayados (interruptor «Resaltar textos nuevos»). Todo lo que NO está aquí
 ya existe hoy en el producto y se reutiliza literal. Pendientes de firma (regla 30). `N`, `M` y `«…»` se rellenan.
@@ -9,7 +9,7 @@ ya existe hoy en el producto y se reutiliza literal. Pendientes de firma (regla 
 | «Cliente» · «¿Para quién es el presupuesto?» | «Cliente» · «¿Para quién es el justificante?» |
 | «Conceptos» · «Añade lo que vas a hacer, con su cantidad y su precio.» | «Conceptos» · «Añade lo que has hecho, con su cantidad y su precio.» |
 | «Condiciones» · «Ya van puestas las de siempre. Cámbialas sólo si este cliente es distinto.» | — |
-| «Revisar y enviar» · «Mira el documento a la derecha y, si está bien, genéralo.» | «Revisar y emitir» · «Mira el documento a la derecha y, si está bien, emítelo.» |
+| «Revisar y enviar» · «Revisa el documento y, si está bien, envíaselo al cliente por WhatsApp.» | «Revisar y emitir» · «Revisa el documento y, si está bien, emítelo.» |
 
 - Paso cerrado: «Cambiar» · resumen «N conceptos · total» y «… · válido hasta dd/mm/aaaa»
 - «Continuar» · «Atrás» · «Paso N de M» (móvil) · «Ver documento» (móvil) · «Volver al editor»
@@ -26,14 +26,19 @@ ya existe hoy en el producto y se reutiliza literal. Pendientes de firma (regla 
 - «Aplicar» (formas de pago pactadas) — sustituye un marcador
 - Modal de IA: «Descríbelo con tus propias palabras y te proponemos las líneas usando tu catálogo de productos.» (el de hoy nombra a «Claude», que no es el proveedor que se usa)
 
+## v3 · Ajustes del documento (fila en Condiciones; en el justificante, en Revisar)
+- «Ajustes del documento» · resumen «IVA sumado» / «IVA no incluido» (ya existe) · «sin dirección de obra» / «con dirección de obra» · en el justificante «IVA por defecto N %»
+
+## v3 · Enviar
+- Botón principal «Enviar por WhatsApp» (ya existe) · secundarias «⬇ Descargar PDF» y «✉ Enviar por email» (ya existen) y «Solo guardar» (NUEVO)
+- Confirmación en la misma pantalla: «✓ Enviado por WhatsApp a <cliente> · pendiente de firma» · «✓ Enviado por email a <email>» · «Presupuesto #N guardado · sin enviar»
+
 ## Cabecera, menús y hojas
-- «Opciones» / «Opciones del documento» · «Lo que casi nunca cambia. Tócalo sólo si este documento es distinto.»
 - «Más acciones» (menú ⋯ de arriba) · «Línea N» · «Ajustes (IVA, descuento, descripción…)»
 - «Descripción» (sustituye «[PENDIENTE microcopy oficial] descripción») · «Sale bajo el concepto si en Opciones marcas «Incluir descripción en el PDF».»
 - «Con su descripción, descuento y suplido.» ⚠ exige cambio de servidor: decide el fundador
 - «El mismo formulario de Clientes, sin salir del documento.»
 - «¿Vaciar este documento?» · «Se quitan el cliente, las líneas y los cambios de este documento. Tus plantillas y tus opciones de siempre no se tocan.» · «No, seguir»
-- «Este presupuesto ya está generado» · «Generarlo otra vez crearía un segundo presupuesto. ¿Quieres ver el que ya tienes?» · «Ver el presupuesto #N» · «generado»
 
 ## Los cuatro marcadores visibles de hoy
 | Hoy | Propuesto |

diff --git a/docs/prototipos/SCRUM-915/medicion.md b/docs/prototipos/SCRUM-915/medicion.md
@@ -1,19 +1,17 @@
-# SCRUM-915 · Medición del prototipo v2
+# SCRUM-915 · Medición del prototipo v3
 
-Chromium 148 local (puppeteer-core), `file://`, 17-sep-2026, rama `scrum-915b-prototipo-v2`. Recorrido en cada
-anchura: elegir «Comunidad Los Olivos» → foco en la línea vacía (desplegable de conceptos) → escribir «grifo» y
-elegir del catálogo → cantidad 2 → «✨ Sugerir con IA» (modal) → «Añadir líneas seleccionadas» → Continuar →
-Condiciones → «Cambiar» en cobro → «50% al aceptar, 50% al finalizar» → Continuar → (390: «Ver documento») →
-«Generar presupuesto» → cerrar → «Justificante» → «Inventario».
+Chromium 148 local (puppeteer-core), `file://`, 17-sep-2026, rama `scrum-915c-prototipo-v3`. Recorrido en cada
+anchura: elegir «Comunidad Los Olivos» → línea con autocompletado → «✨ Sugerir con IA» → Condiciones → «Cambiar» en
+cobro (50/50) → «Cambiar» en «Ajustes del documento» y dirección de obra «Utilizar dirección de facturación» →
+Revisar y enviar (390: «Ver documento») → «Enviar por WhatsApp» → «Justificante» → «Inventario».
 
-| Anchura | Errores | Scroll horizontal | Controles < 44 px | Total con 1 línea | Total final | Filas en el documento | Pasos del justificante | Filas del inventario |
-|---|---|---|---|---|---|---|---|---|
-| 1280 × 860 | 0 | no (12 estados) | 0 | 157,06 € | 460,65 € | 5 | 3 | 45 |
-| 390 × 844 táctil | 0 | no (13 estados) | 0 | 157,06 € | 460,65 € | 5 | 3 | 45 |
+| Anchura | Errores | Scroll horizontal | Controles < 44 px | Botones fuera de la barra fija | Total final | Confirmación tras enviar | Modal abierto | «Obra» en el documento | Filas del inventario |
+|---|---|---|---|---|---|---|---|---|---|
+| 1280 × 860 | 0 | no | 0 | — | 460,65 € | «✓ Enviado por WhatsApp a Comunidad Los Olivos · pendiente de firma» | no | sí | 47 |
+| 390 × 844 táctil | 0 | no | 0 | 0 | 460,65 € | igual | no | sí | 47 |
 
-- A mano: 2 × 64,90 = 129,80 € + 21 % = 157,06 €. Con las 4 de la IA: base 380,70 € + IVA 79,95 € = 460,65 €.
-- La vista previa se construye: 0 → 1 → 5 filas y el total cambia en cada paso del recorrido.
-- ⚠ Pasadas anteriores: «⋯» a 40 px y «Listo»/«Abrir PDF» bajo 44 en móvil (corregidos); el concepto se cortaba a
-  390 (la línea pasa a dos filas con rótulos «Cantidad»/«Precio»); y dos fallos del propio script (el triple clic no
-  selecciona en un `input number`; un clic caía bajo la barra fija) que se corrigieron en el script, no en el prototipo.
+- Nº «#128» en la cabecera del documento tras enviar; el ⚙ de arriba ya no existe.
+- ⚠ Primera pasada en 390: la barra inferior del último paso no cabía («Enviado por WhatsApp» cortado): en ese paso la
+  barra lleva sólo el total y el botón; «Ver documento» queda dentro del paso. Se añadió a la medida la comprobación de
+  botones fuera de la barra fija, que antes no se miraba.
 - La cuenta es ILUSTRATIVA: al construir manda la de hoy (887/888).

diff --git a/docs/prototipos/SCRUM-915/direccion-de-diseno.md b/docs/prototipos/SCRUM-915/direccion-de-diseno.md
@@ -45,3 +45,14 @@ rota, no se va creando. Molaba más a un lado, pero moderno y pulido.»
 - Condiciones ya elegidas: tres filas resumen (cobro, formas de pago, validez), cada una con «Cambiar».
 - Opciones y «⋯» (Guardar como plantilla, Limpiar formulario) arriba del editor.
 - Móvil: los mismos pasos, barra inferior con el total, «Ver documento» y «Continuar».
+
+---
+
+## v3 (17-sep-2026) — veredicto del fundador sobre la v2: «me gusta mucho más», con dos cambios (decididos por el orquestador)
+1. **Ajustes a la vista, sin pestaña:** fuera el ⚙ de arriba; fila «Ajustes del documento · IVA sumado · sin dirección de
+   obra · Cambiar» dentro de Condiciones (en el justificante, dentro de Revisar), abierta en el sitio como las demás.
+   En el «⋯» quedan Guardar como plantilla y Limpiar formulario.
+2. **WhatsApp es lo primero:** el último paso «Revisar y enviar» tiene como principal «Enviar por WhatsApp» (genera y
+   envía en un gesto); secundarias «⬇ Descargar PDF», «✉ Enviar por email» y «Solo guardar». Confirmación en la misma
+   pantalla, sin modal. Se genera UNA vez: todo reutiliza el mismo presupuesto. En móvil la barra del último paso lleva
+   «Enviar por WhatsApp».
